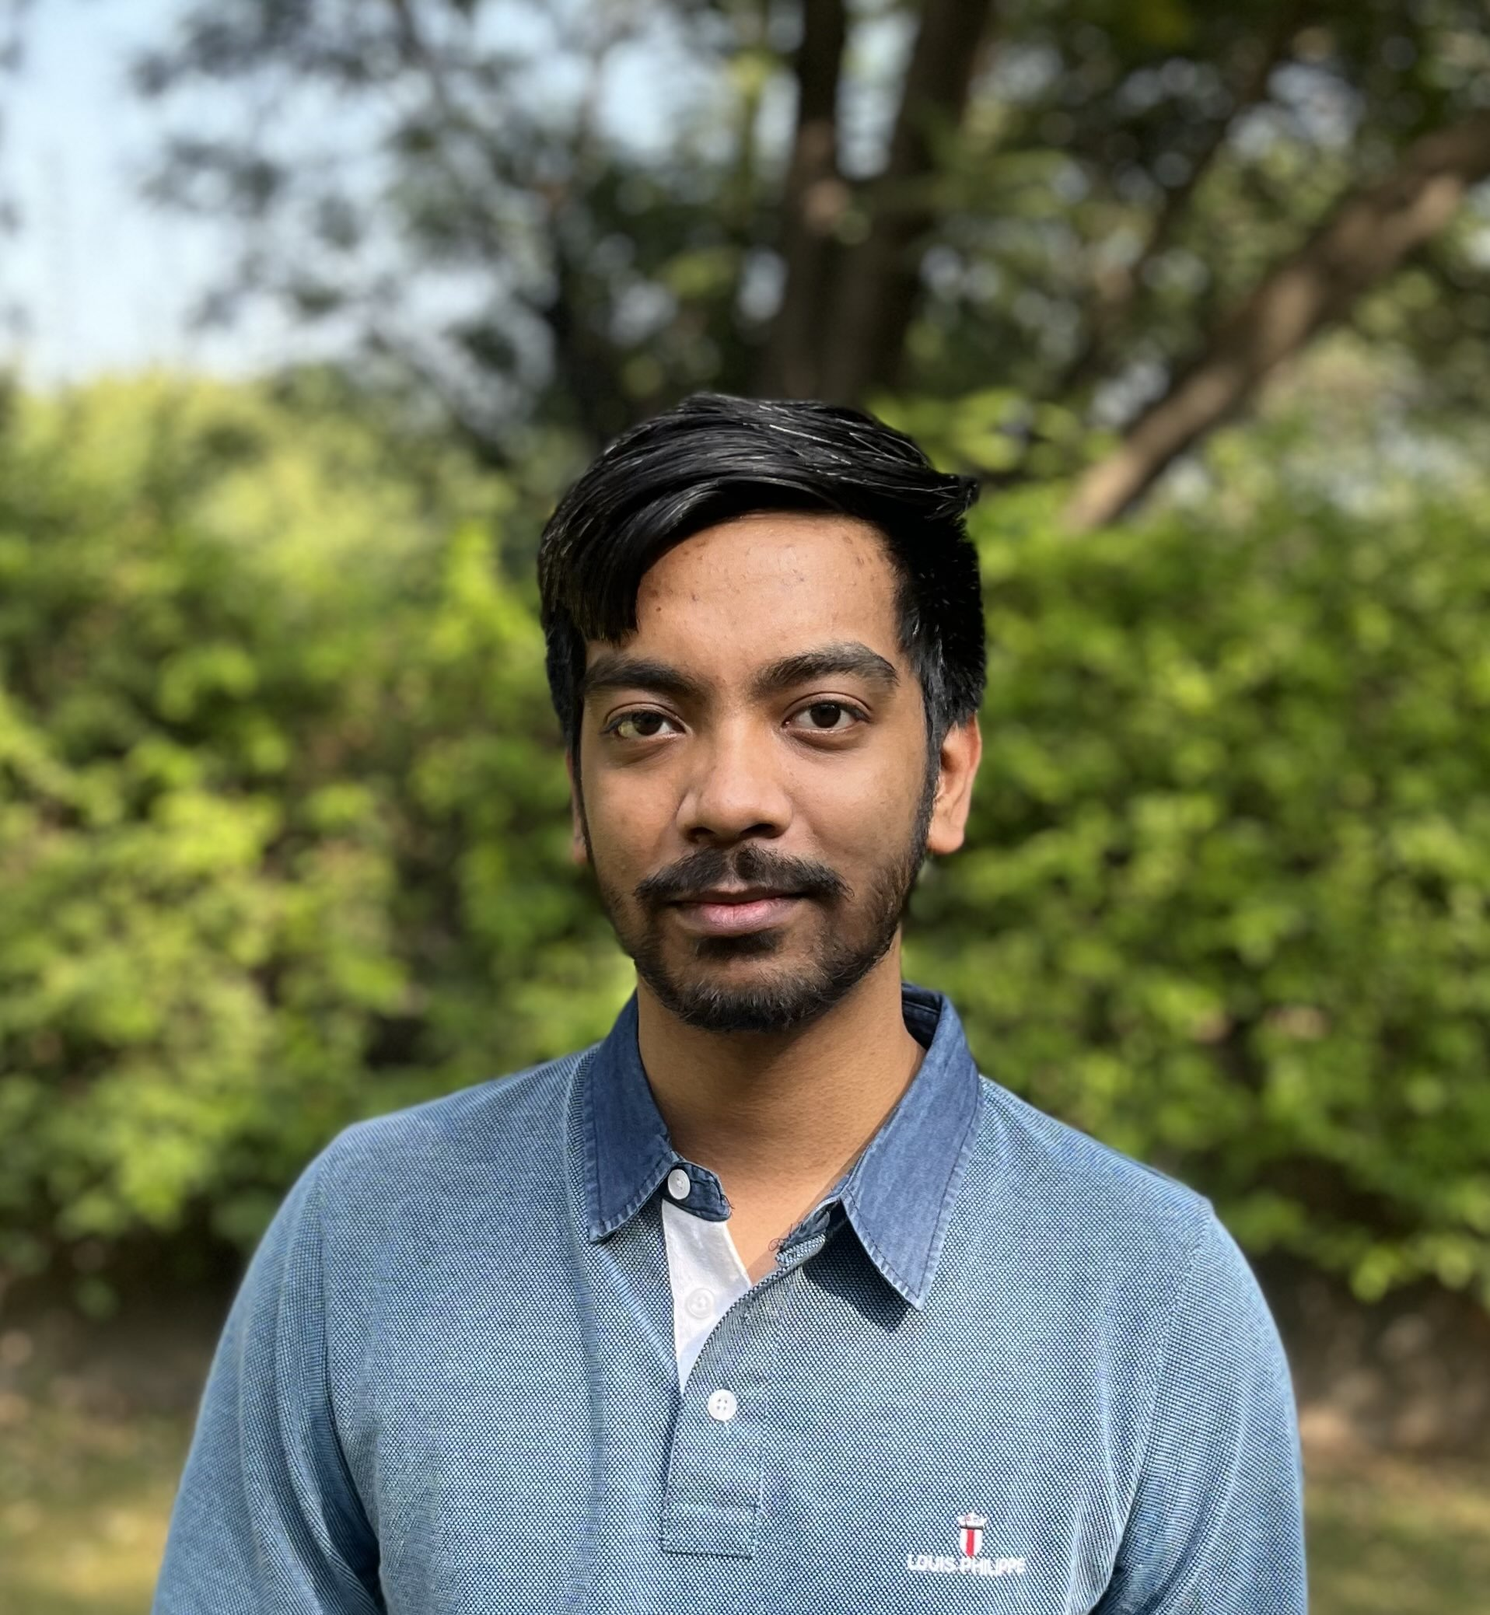
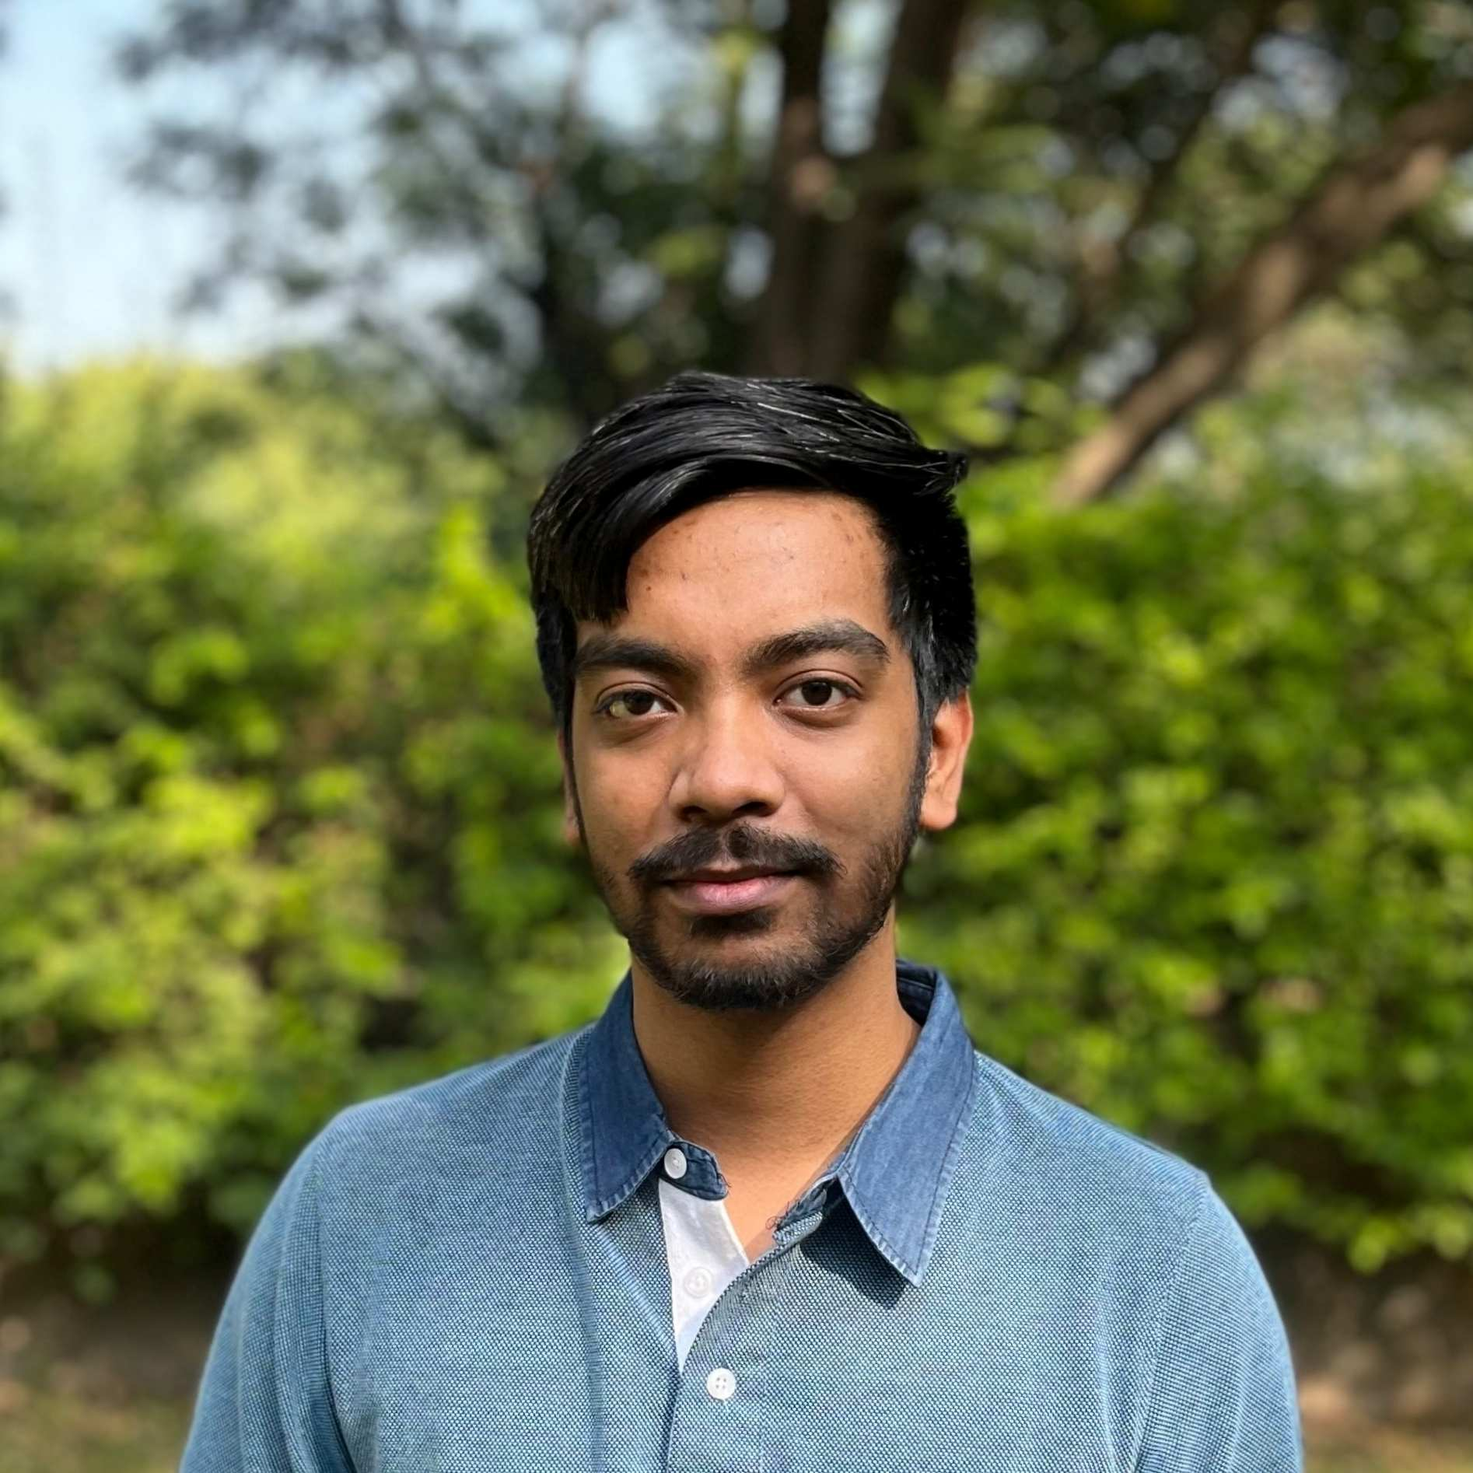
circle image

diff --git a/assets/css/styles.min.css b/assets/css/styles.min.css
@@ -1,1 +1,1 @@
-/*! tailwindcss v3.4.3 | MIT License | https://tailwindcss.com*/*,:after,:before{box-sizing:border-box;border:0 solid #e5e7eb}:after,:before{--tw-content:""}:host,html{line-height:1.5;-webkit-text-size-adjust:100%;-moz-tab-size:4;-o-tab-size:4;tab-size:4;font-family:ui-sans-serif,system-ui,sans-serif,Apple Color Emoji,Segoe UI Emoji,Segoe UI Symbol,Noto Color Emoji;font-feature-settings:normal;font-variation-settings:normal;-webkit-tap-highlight-color:transparent}body{margin:0;line-height:inherit}hr{height:0;color:inherit;border-top-width:1px}abbr:where([title]){-webkit-text-decoration:underline dotted;text-decoration:underline dotted}h1,h2,h3,h4,h5,h6{font-size:inherit;font-weight:inherit}a{color:inherit;text-decoration:inherit}b,strong{font-weight:bolder}code,kbd,pre,samp{font-family:ui-monospace,SFMono-Regular,Menlo,Monaco,Consolas,Liberation Mono,Courier New,monospace;font-feature-settings:normal;font-variation-settings:normal;font-size:1em}small{font-size:80%}sub,sup{font-size:75%;line-height:0;position:relative;vertical-align:initial}sub{bottom:-.25em}sup{top:-.5em}table{text-indent:0;border-color:inherit;border-collapse:collapse}button,input,optgroup,select,textarea{font-family:inherit;font-feature-settings:inherit;font-variation-settings:inherit;font-size:100%;font-weight:inherit;line-height:inherit;letter-spacing:inherit;color:inherit;margin:0;padding:0}button,select{text-transform:none}button,input:where([type=button]),input:where([type=reset]),input:where([type=submit]){-webkit-appearance:button;background-color:initial;background-image:none}:-moz-focusring{outline:auto}:-moz-ui-invalid{box-shadow:none}progress{vertical-align:initial}::-webkit-inner-spin-button,::-webkit-outer-spin-button{height:auto}[type=search]{-webkit-appearance:textfield;outline-offset:-2px}::-webkit-search-decoration{-webkit-appearance:none}::-webkit-file-upload-button{-webkit-appearance:button;font:inherit}summary{display:list-item}blockquote,dd,dl,figure,h1,h2,h3,h4,h5,h6,hr,p,pre{margin:0}fieldset{margin:0}fieldset,legend{padding:0}menu,ol,ul{list-style:none;margin:0;padding:0}dialog{padding:0}textarea{resize:vertical}input::-moz-placeholder,textarea::-moz-placeholder{opacity:1;color:#9ca3af}input::placeholder,textarea::placeholder{opacity:1;color:#9ca3af}[role=button],button{cursor:pointer}:disabled{cursor:default}audio,canvas,embed,iframe,img,object,svg,video{display:block;vertical-align:middle}img,video{max-width:100%;height:auto}[hidden]{display:none}*,::backdrop,:after,:before{--tw-border-spacing-x:0;--tw-border-spacing-y:0;--tw-translate-x:0;--tw-translate-y:0;--tw-rotate:0;--tw-skew-x:0;--tw-skew-y:0;--tw-scale-x:1;--tw-scale-y:1;--tw-pan-x: ;--tw-pan-y: ;--tw-pinch-zoom: ;--tw-scroll-snap-strictness:proximity;--tw-gradient-from-position: ;--tw-gradient-via-position: ;--tw-gradient-to-position: ;--tw-ordinal: ;--tw-slashed-zero: ;--tw-numeric-figure: ;--tw-numeric-spacing: ;--tw-numeric-fraction: ;--tw-ring-inset: ;--tw-ring-offset-width:0px;--tw-ring-offset-color:#fff;--tw-ring-color:#3b82f680;--tw-ring-offset-shadow:0 0 #0000;--tw-ring-shadow:0 0 #0000;--tw-shadow:0 0 #0000;--tw-shadow-colored:0 0 #0000;--tw-blur: ;--tw-brightness: ;--tw-contrast: ;--tw-grayscale: ;--tw-hue-rotate: ;--tw-invert: ;--tw-saturate: ;--tw-sepia: ;--tw-drop-shadow: ;--tw-backdrop-blur: ;--tw-backdrop-brightness: ;--tw-backdrop-contrast: ;--tw-backdrop-grayscale: ;--tw-backdrop-hue-rotate: ;--tw-backdrop-invert: ;--tw-backdrop-opacity: ;--tw-backdrop-saturate: ;--tw-backdrop-sepia: ;--tw-contain-size: ;--tw-contain-layout: ;--tw-contain-paint: ;--tw-contain-style: }.container{width:100%}@media (min-width:640px){.container{max-width:640px}}@media (min-width:768px){.container{max-width:768px}}@media (min-width:1024px){.container{max-width:1024px}}@media (min-width:1280px){.container{max-width:1280px}}@media (min-width:1536px){.container{max-width:1536px}}.absolute{position:absolute}.relative{position:relative}.bottom-0{bottom:0}.left-0{left:0}.left-\[calc\(0\.25rem-0\.5px\)\]{left:calc(.25rem - .5px)}.top-0{top:0}.top-2{top:.5rem}.order-first{order:-9999}.m-8{margin:2rem}.mx-auto{margin-left:auto;margin-right:auto}.my-4{margin-top:1rem;margin-bottom:1rem}.mb-16{margin-bottom:4rem}.mb-3{margin-bottom:.75rem}.mb-8{margin-bottom:2rem}.mt-0{margin-top:0}.mt-0\.5{margin-top:.125rem}.mt-16{margin-top:4rem}.mt-2{margin-top:.5rem}.mt-4{margin-top:1rem}.mt-8{margin-top:2rem}.block{display:block}.flex{display:flex}.grid{display:grid}.h-16{height:4rem}.h-2{height:.5rem}.h-fit{height:-moz-fit-content;height:fit-content}.h-px{height:1px}.w-10{width:2.5rem}.w-2{width:.5rem}.w-px{width:1px}.max-w-16{max-width:4rem}.max-w-40{max-width:10rem}.max-w-max{max-width:-moz-max-content;max-width:max-content}.max-w-screen-md{max-width:768px}.grid-cols-5{grid-template-columns:repeat(5,minmax(0,1fr))}.flex-col{flex-direction:column}.items-center{align-items:center}.justify-center{justify-content:center}.justify-items-center{justify-items:center}.gap-1{gap:.25rem}.gap-2{gap:.5rem}.gap-4{gap:1rem}.rounded-2xl{border-radius:1rem}.rounded-3xl{border-radius:1.5rem}.rounded-full{border-radius:9999px}.rounded-lg{border-radius:.5rem}.border{border-width:1px}.border-sky-300{--tw-border-opacity:1;border-color:rgb(125 211 252/var(--tw-border-opacity))}.border-zinc-500\/50{border-color:#71717a80}.bg-cyan-500{--tw-bg-opacity:1;background-color:rgb(6 182 212/var(--tw-bg-opacity))}.bg-white\/10{background-color:#ffffff1a}.bg-zinc-500\/50{background-color:#71717a80}.bg-zinc-800{--tw-bg-opacity:1;background-color:rgb(39 39 42/var(--tw-bg-opacity))}.bg-zinc-900{--tw-bg-opacity:1;background-color:rgb(24 24 27/var(--tw-bg-opacity))}.bg-zinc-950{--tw-bg-opacity:1;background-color:rgb(9 9 11/var(--tw-bg-opacity))}.p-2{padding:.5rem}.p-8{padding:2rem}.pb-8{padding-bottom:2rem}.pl-7{padding-left:1.75rem}.text-center{text-align:center}.text-3xl{font-size:1.875rem;line-height:2.25rem}.text-4xl{font-size:2.25rem;line-height:2.5rem}.text-sm{font-size:.875rem;line-height:1.25rem}.text-sm\/6{font-size:.875rem;line-height:1.5rem}.text-xs{font-size:.75rem;line-height:1rem}.font-bold{font-weight:700}.font-extralight{font-weight:200}.font-semibold{font-weight:600}.tracking-\[0\.2em\]{letter-spacing:.2em}.text-sky-300{--tw-text-opacity:1;color:rgb(125 211 252/var(--tw-text-opacity))}.text-slate-50{--tw-text-opacity:1;color:rgb(248 250 252/var(--tw-text-opacity))}.text-white{--tw-text-opacity:1;color:rgb(255 255 255/var(--tw-text-opacity))}.text-zinc-400{--tw-text-opacity:1;color:rgb(161 161 170/var(--tw-text-opacity))}.last\:pb-0:last-child{padding-bottom:0}.group:first-child .group-first\:top-3{top:.75rem}@media (min-width:640px){.sm\:grid-cols-1{grid-template-columns:repeat(1,minmax(0,1fr))}}@media (min-width:768px){.md\:grid-cols-1{grid-template-columns:repeat(1,minmax(0,1fr))}.md\:grid-cols-9{grid-template-columns:repeat(9,minmax(0,1fr))}}@media (min-width:1024px){.lg\:col-span-3{grid-column:span 3/span 3}.lg\:grid-cols-4{grid-template-columns:repeat(4,minmax(0,1fr))}}
+/*! tailwindcss v3.4.3 | MIT License | https://tailwindcss.com*/*,:after,:before{box-sizing:border-box;border:0 solid #e5e7eb}:after,:before{--tw-content:""}:host,html{line-height:1.5;-webkit-text-size-adjust:100%;-moz-tab-size:4;-o-tab-size:4;tab-size:4;font-family:ui-sans-serif,system-ui,sans-serif,Apple Color Emoji,Segoe UI Emoji,Segoe UI Symbol,Noto Color Emoji;font-feature-settings:normal;font-variation-settings:normal;-webkit-tap-highlight-color:transparent}body{margin:0;line-height:inherit}hr{height:0;color:inherit;border-top-width:1px}abbr:where([title]){-webkit-text-decoration:underline dotted;text-decoration:underline dotted}h1,h2,h3,h4,h5,h6{font-size:inherit;font-weight:inherit}a{color:inherit;text-decoration:inherit}b,strong{font-weight:bolder}code,kbd,pre,samp{font-family:ui-monospace,SFMono-Regular,Menlo,Monaco,Consolas,Liberation Mono,Courier New,monospace;font-feature-settings:normal;font-variation-settings:normal;font-size:1em}small{font-size:80%}sub,sup{font-size:75%;line-height:0;position:relative;vertical-align:initial}sub{bottom:-.25em}sup{top:-.5em}table{text-indent:0;border-color:inherit;border-collapse:collapse}button,input,optgroup,select,textarea{font-family:inherit;font-feature-settings:inherit;font-variation-settings:inherit;font-size:100%;font-weight:inherit;line-height:inherit;letter-spacing:inherit;color:inherit;margin:0;padding:0}button,select{text-transform:none}button,input:where([type=button]),input:where([type=reset]),input:where([type=submit]){-webkit-appearance:button;background-color:initial;background-image:none}:-moz-focusring{outline:auto}:-moz-ui-invalid{box-shadow:none}progress{vertical-align:initial}::-webkit-inner-spin-button,::-webkit-outer-spin-button{height:auto}[type=search]{-webkit-appearance:textfield;outline-offset:-2px}::-webkit-search-decoration{-webkit-appearance:none}::-webkit-file-upload-button{-webkit-appearance:button;font:inherit}summary{display:list-item}blockquote,dd,dl,figure,h1,h2,h3,h4,h5,h6,hr,p,pre{margin:0}fieldset{margin:0}fieldset,legend{padding:0}menu,ol,ul{list-style:none;margin:0;padding:0}dialog{padding:0}textarea{resize:vertical}input::-moz-placeholder,textarea::-moz-placeholder{opacity:1;color:#9ca3af}input::placeholder,textarea::placeholder{opacity:1;color:#9ca3af}[role=button],button{cursor:pointer}:disabled{cursor:default}audio,canvas,embed,iframe,img,object,svg,video{display:block;vertical-align:middle}img,video{max-width:100%;height:auto}[hidden]{display:none}*,::backdrop,:after,:before{--tw-border-spacing-x:0;--tw-border-spacing-y:0;--tw-translate-x:0;--tw-translate-y:0;--tw-rotate:0;--tw-skew-x:0;--tw-skew-y:0;--tw-scale-x:1;--tw-scale-y:1;--tw-pan-x: ;--tw-pan-y: ;--tw-pinch-zoom: ;--tw-scroll-snap-strictness:proximity;--tw-gradient-from-position: ;--tw-gradient-via-position: ;--tw-gradient-to-position: ;--tw-ordinal: ;--tw-slashed-zero: ;--tw-numeric-figure: ;--tw-numeric-spacing: ;--tw-numeric-fraction: ;--tw-ring-inset: ;--tw-ring-offset-width:0px;--tw-ring-offset-color:#fff;--tw-ring-color:#3b82f680;--tw-ring-offset-shadow:0 0 #0000;--tw-ring-shadow:0 0 #0000;--tw-shadow:0 0 #0000;--tw-shadow-colored:0 0 #0000;--tw-blur: ;--tw-brightness: ;--tw-contrast: ;--tw-grayscale: ;--tw-hue-rotate: ;--tw-invert: ;--tw-saturate: ;--tw-sepia: ;--tw-drop-shadow: ;--tw-backdrop-blur: ;--tw-backdrop-brightness: ;--tw-backdrop-contrast: ;--tw-backdrop-grayscale: ;--tw-backdrop-hue-rotate: ;--tw-backdrop-invert: ;--tw-backdrop-opacity: ;--tw-backdrop-saturate: ;--tw-backdrop-sepia: ;--tw-contain-size: ;--tw-contain-layout: ;--tw-contain-paint: ;--tw-contain-style: }.container{width:100%}@media (min-width:640px){.container{max-width:640px}}@media (min-width:768px){.container{max-width:768px}}@media (min-width:1024px){.container{max-width:1024px}}@media (min-width:1280px){.container{max-width:1280px}}@media (min-width:1536px){.container{max-width:1536px}}.absolute{position:absolute}.relative{position:relative}.bottom-0{bottom:0}.left-0{left:0}.left-\[calc\(0\.25rem-0\.5px\)\]{left:calc(.25rem - .5px)}.right-3{right:.75rem}.top-0{top:0}.top-2{top:.5rem}.top-3{top:.75rem}.order-first{order:-9999}.m-8{margin:2rem}.mx-auto{margin-left:auto;margin-right:auto}.my-4{margin-top:1rem;margin-bottom:1rem}.mb-16{margin-bottom:4rem}.mb-3{margin-bottom:.75rem}.mb-8{margin-bottom:2rem}.mt-0{margin-top:0}.mt-0\.5{margin-top:.125rem}.mt-16{margin-top:4rem}.mt-2{margin-top:.5rem}.mt-4{margin-top:1rem}.mt-8{margin-top:2rem}.block{display:block}.flex{display:flex}.grid{display:grid}.h-16{height:4rem}.h-2{height:.5rem}.h-fit{height:-moz-fit-content;height:fit-content}.h-px{height:1px}.max-h-40{max-height:10rem}.w-10{width:2.5rem}.w-2{width:.5rem}.w-px{width:1px}.max-w-16{max-width:4rem}.max-w-max{max-width:-moz-max-content;max-width:max-content}.max-w-screen-md{max-width:768px}.grid-cols-5{grid-template-columns:repeat(5,minmax(0,1fr))}.flex-col{flex-direction:column}.items-center{align-items:center}.justify-center{justify-content:center}.justify-items-center{justify-items:center}.gap-1{gap:.25rem}.gap-2{gap:.5rem}.gap-4{gap:1rem}.rounded-2xl{border-radius:1rem}.rounded-3xl{border-radius:1.5rem}.rounded-full{border-radius:9999px}.rounded-lg{border-radius:.5rem}.border{border-width:1px}.border-sky-300{--tw-border-opacity:1;border-color:rgb(125 211 252/var(--tw-border-opacity))}.border-zinc-500\/50{border-color:#71717a80}.bg-cyan-500{--tw-bg-opacity:1;background-color:rgb(6 182 212/var(--tw-bg-opacity))}.bg-white\/10{background-color:#ffffff1a}.bg-zinc-500\/50{background-color:#71717a80}.bg-zinc-800{--tw-bg-opacity:1;background-color:rgb(39 39 42/var(--tw-bg-opacity))}.bg-zinc-900{--tw-bg-opacity:1;background-color:rgb(24 24 27/var(--tw-bg-opacity))}.bg-zinc-950{--tw-bg-opacity:1;background-color:rgb(9 9 11/var(--tw-bg-opacity))}.p-2{padding:.5rem}.p-8{padding:2rem}.pb-8{padding-bottom:2rem}.pl-7{padding-left:1.75rem}.text-center{text-align:center}.text-3xl{font-size:1.875rem;line-height:2.25rem}.text-4xl{font-size:2.25rem;line-height:2.5rem}.text-sm{font-size:.875rem;line-height:1.25rem}.text-sm\/6{font-size:.875rem;line-height:1.5rem}.text-xs{font-size:.75rem;line-height:1rem}.font-bold{font-weight:700}.font-extralight{font-weight:200}.font-semibold{font-weight:600}.tracking-\[0\.2em\]{letter-spacing:.2em}.text-sky-300{--tw-text-opacity:1;color:rgb(125 211 252/var(--tw-text-opacity))}.text-slate-50{--tw-text-opacity:1;color:rgb(248 250 252/var(--tw-text-opacity))}.text-white{--tw-text-opacity:1;color:rgb(255 255 255/var(--tw-text-opacity))}.text-zinc-400{--tw-text-opacity:1;color:rgb(161 161 170/var(--tw-text-opacity))}.shadow-inner{--tw-shadow:inset 0 2px 4px 0 #0000000d;--tw-shadow-colored:inset 0 2px 4px 0 var(--tw-shadow-color);box-shadow:var(--tw-ring-offset-shadow,0 0 #0000),var(--tw-ring-shadow,0 0 #0000),var(--tw-shadow)}.shadow-zinc-500{--tw-shadow-color:#71717a;--tw-shadow:var(--tw-shadow-colored)}.last\:pb-0:last-child{padding-bottom:0}.group:first-child .group-first\:top-3{top:.75rem}@media (min-width:640px){.sm\:grid-cols-1{grid-template-columns:repeat(1,minmax(0,1fr))}}@media (min-width:768px){.md\:grid-cols-1{grid-template-columns:repeat(1,minmax(0,1fr))}.md\:grid-cols-9{grid-template-columns:repeat(9,minmax(0,1fr))}}@media (min-width:1024px){.lg\:col-span-3{grid-column:span 3/span 3}.lg\:grid-cols-4{grid-template-columns:repeat(4,minmax(0,1fr))}}

diff --git a/index.html b/index.html
@@ -10,13 +10,14 @@
 <div class="container justify-items-center mx-auto mt-16">
     <div class="grid lg:grid-cols-4 md:grid-cols-1 sm:grid-cols-1 gap-4">
         <div class="rounded-3xl bg-zinc-900 p-8 border border-zinc-500/50 justify-center h-fit">
-            <div class="bg-zinc-800 rounded-full max-w-max mx-auto mt-4">
-                <img src="./assets/images/avatar.jpg" class="max-w-40 rounded-full"/>
+            <div class="relative max-w-max mx-auto mt-4 p-2">
+                <img src="./assets/images/avatar.jpg" class="rounded-full max-h-40"/>
+                <div class="absolute top-3 right-3 text-3xl">🇮🇳</div>
             </div>
 
             <p class="mt-8 text-3xl font-semibold text-center">Nipun Haldar</p>
             <div class="flex justify-center my-4 ">
-                <p class="bg-zinc-800 rounded-lg text-center p-2 text-xs">
+                <p class="bg-zinc-800 rounded-lg text-center p-2 text-xs border border-zinc-500/50">
                     Cloud Architect
                 </p>
             </div>
@@ -34,6 +35,11 @@
                     </a>
                 </li>
                 <li>
+                    <a href="https://github.com/nipun24" target="_blank">
+                        <ion-icon name="logo-github"></ion-icon>
+                    </a>
+                </li>
+                <li>
                     <a href="https://instagram.com/focus.breathing" target="_blank">
                         <ion-icon name="logo-instagram"></ion-icon>
                     </a>
@@ -41,11 +47,6 @@
                 <li>
                     <a href="https://twitter.com/focus_breathing" target="_blank">
                         <ion-icon name="logo-twitter"></ion-icon>
-                    </a>
-                </li>
-                <li>
-                    <a href="https://github.com/nipun24" target="_blank">
-                        <ion-icon name="logo-github"></ion-icon>
                     </a>
                 </li>
                 <li>
@@ -160,31 +161,31 @@
                 <p class="text-4xl font-bold mb-3">Skills</p>
                 <span class="h-px block bg-zinc-500/50 w-100"></span>
                 <div class="grid md:grid-cols-9 grid-cols-5 mt-8 gap-4">
-                    <div class="bg-zinc-800 p-2 max-w-16 h-16 flex justify-center items-center rounded-2xl border border-zinc-500/50">
+                    <div class="bg-zinc-800 p-2 max-w-16 h-16 flex justify-center items-center rounded-2xl border border-zinc-500/50 shadow-inner shadow-zinc-500">
                         <ion-icon name="logo-amazon" size="large"></ion-icon>
                     </div>
-                    <div class="bg-zinc-800 p-2 max-w-16 h-16 flex justify-center items-center rounded-2xl border border-zinc-500/50">
+                    <div class="bg-zinc-800 p-2 max-w-16 h-16 flex justify-center items-center rounded-2xl border border-zinc-500/50 shadow-inner shadow-zinc-500">
                         <ion-icon name="logo-python" size="large"></ion-icon>
                     </div>
-                    <div class="bg-zinc-800 p-2 max-w-16 h-16 flex justify-center items-center rounded-2xl border border-zinc-500/50">
+                    <div class="bg-zinc-800 p-2 max-w-16 h-16 flex justify-center items-center rounded-2xl border border-zinc-500/50 shadow-inner shadow-zinc-500">
                         <ion-icon name="logo-tux" size="large"></ion-icon>
                     </div>
-                    <div class="bg-zinc-800 p-2 max-w-16 h-16 flex justify-center items-center rounded-2xl border border-zinc-500/50">
+                    <div class="bg-zinc-800 p-2 max-w-16 h-16 flex justify-center items-center rounded-2xl border border-zinc-500/50 shadow-inner shadow-zinc-500">
                         <ion-icon name="logo-docker" size="large"></ion-icon>
                     </div>
-                    <div class="bg-zinc-800 p-2 max-w-16 h-16 flex justify-center items-center rounded-2xl border border-zinc-500/50">
+                    <div class="bg-zinc-800 p-2 max-w-16 h-16 flex justify-center items-center rounded-2xl border border-zinc-500/50 shadow-inner shadow-zinc-500">
                         <ion-icon name="terminal-outline" size="large"></ion-icon>
                     </div>
-                    <div class="bg-zinc-800 p-2 max-w-16 h-16 flex justify-center items-center rounded-2xl border border-zinc-500/50">
+                    <div class="bg-zinc-800 p-2 max-w-16 h-16 flex justify-center items-center rounded-2xl border border-zinc-500/50 shadow-inner shadow-zinc-500">
                         <ion-icon name="logo-javascript" size="large"></ion-icon>
                     </div>
-                    <div class="bg-zinc-800 p-2 max-w-16 h-16 flex justify-center items-center rounded-2xl border border-zinc-500/50">
+                    <div class="bg-zinc-800 p-2 max-w-16 h-16 flex justify-center items-center rounded-2xl border border-zinc-500/50 shadow-inner shadow-zinc-500">
                         <ion-icon name="git-merge-outline" size="large"></ion-icon>
                     </div>
-                    <div class="bg-zinc-800 p-2 max-w-16 h-16 flex justify-center items-center rounded-2xl border border-zinc-500/50">
+                    <div class="bg-zinc-800 p-2 max-w-16 h-16 flex justify-center items-center rounded-2xl border border-zinc-500/50 shadow-inner shadow-zinc-500">
                         <ion-icon name="logo-firebase" size="large"></ion-icon>
                     </div>
-                    <div class="bg-zinc-800 p-2 max-w-16 h-16 flex justify-center items-center rounded-2xl border border-zinc-500/50">
+                    <div class="bg-zinc-800 p-2 max-w-16 h-16 flex justify-center items-center rounded-2xl border border-zinc-500/50 shadow-inner shadow-zinc-500">
                         <ion-icon name="logo-vercel" sixe="large"></ion-icon>
                     </div>
                 </div>
